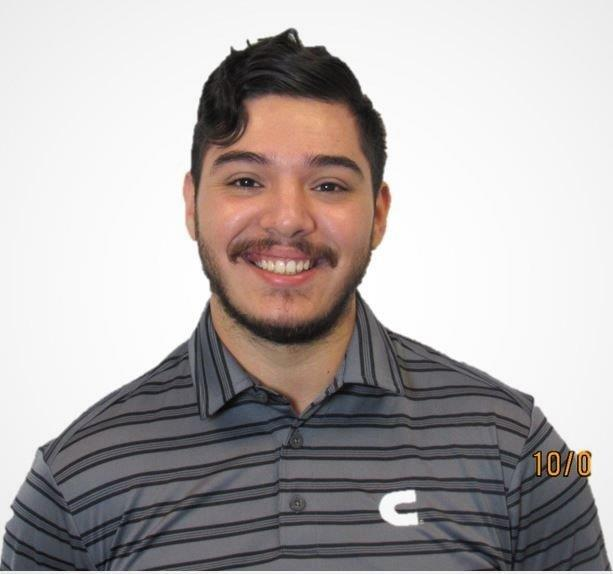
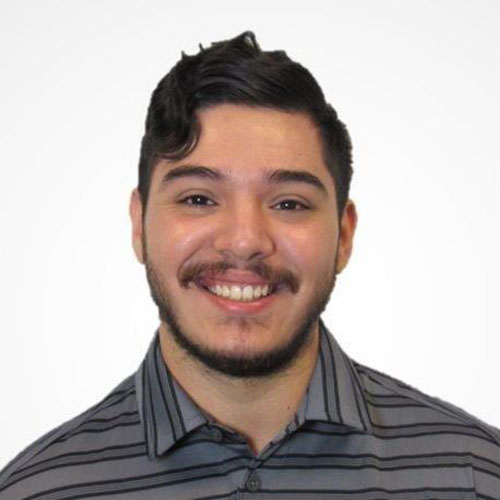
adjusts photo sizes

diff --git a/index.html b/index.html
@@ -114,6 +114,7 @@
                             <img class="img-fluid rounded-circle mb-3" src="assets/img/testimonials-1.jpg" alt="..." />
                             <h5>William Griffin</h5>
                             <p class="font-weight-light mb-0">Ordered the Pizza</p>
+                            <p class="font-weight-light mb-0"><a href="" target="_blank" rel="noreferrer">LinkedIn</a> | <a href="" target="_blank" rel="noreferrer">Portfolio</a> | <a href="" target="_blank" rel="noreferrer">GitHub</a></p>
                         </div>
                     </div>
                     <div class="col-lg-4">
@@ -121,6 +122,7 @@
                             <img class="img-fluid rounded-circle mb-3" src="assets/img/stephenroach.jpg" alt="..." />
                             <h5>Stephen Roach</h5>
                             <p class="font-weight-light mb-0">Started Our LLC</p>
+                            <p class="font-weight-light mb-0"><a href="" target="_blank" rel="noreferrer">LinkedIn</a> | <a href="" target="_blank" rel="noreferrer">Portfolio</a> | <a href="" target="_blank" rel="noreferrer">GitHub</a></p>
                         </div>
                     </div>
                     <div class="col-lg-4">
@@ -128,7 +130,7 @@
                             <img class="img-fluid rounded-circle mb-3" src="assets/img/wilcott.jpg" alt="..." />
                             <h5>Elijah Wilcott</h5>
                             <p class="font-weight-light mb-0">Wouldn't Leave Slack Alone</p>
-                            <p class="font-weight-light mb-0"><a>LinkedIn</a> | <a>Portfolio</a> | <a>GitHub</a></p>
+                            <p class="font-weight-light mb-0"><a href="" target="_blank" rel="noreferrer">LinkedIn</a> | <a href="" target="_blank" rel="noreferrer">Portfolio</a> | <a href="" target="_blank" rel="noreferrer">GitHub</a></p>
                         </div>
                     </div>
                 </div>
